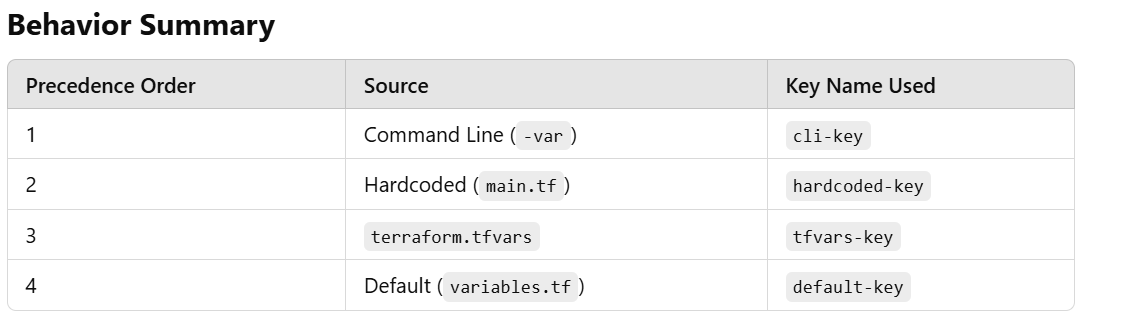
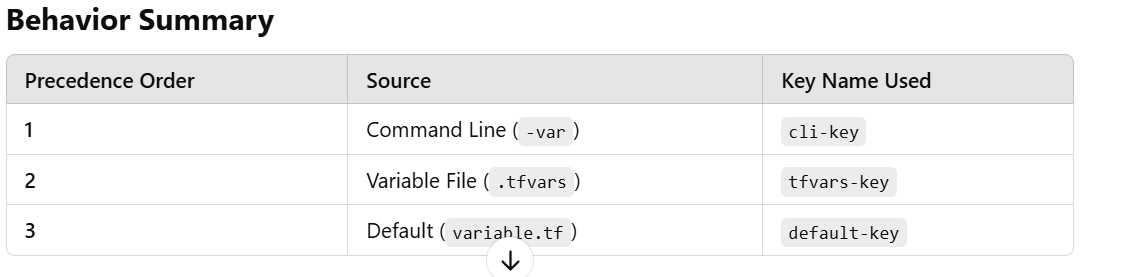
day-2

diff --git a/Day-2-input-vars-outputs/Readme.md b/Day-2-input-vars-outputs/Readme.md
@@ -14,11 +14,9 @@ In Terraform, variables can be defined in multiple places. When you specify valu
 
 1. -var: When you provide a variable value directly on the command line using the -var flag, it has the highest precedence.
 
-2. main.tf: If the variable is defined in main.tf (or any other Terraform configuration files), it gets used only if no value is specified via the -var flag.
+2. -tfvars: If a .tfvars file is used, its values are applied after the command-line -var flag but before the variable.tf or main.tf.
 
-3. -tfvars: If a .tfvars file is used, its values are applied after the command-line -var flag but before the variable.tf or main.tf.
-
-4. variable.tf: This file contains the default values for the variables. If none of the other sources specify a value, the default value from variable.tf will be used.
+3. variable.tf: This file contains the default values for the variables. If none of the other sources specify a value, the default value from variable.tf will be used.
 
 ![alt text](image.png)
 
